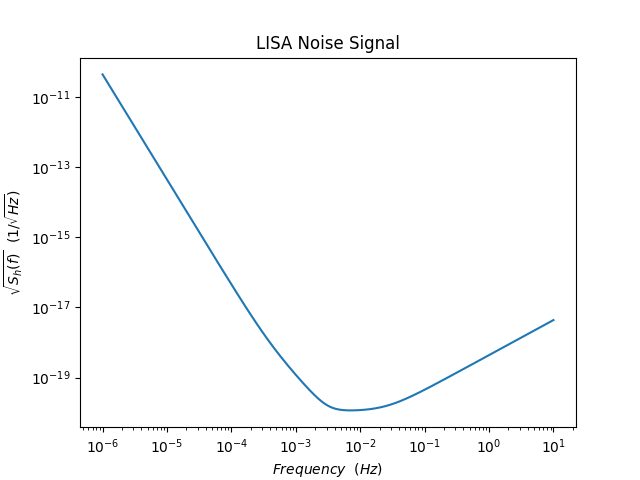
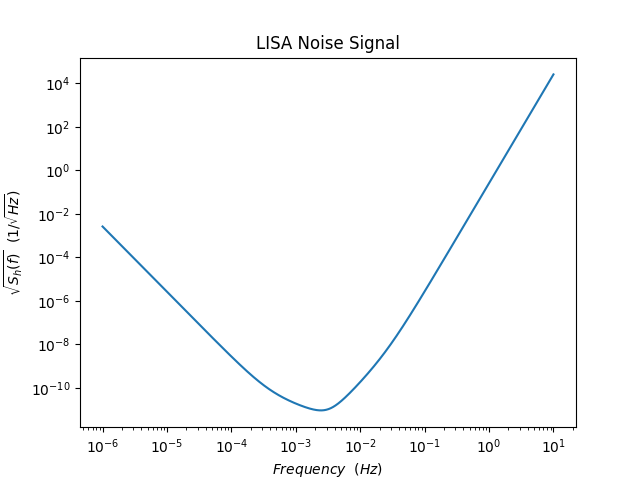
ps 1.5 factor

diff --git a/Main/Data_Analysis/ps_rewritten.py b/Main/Data_Analysis/ps_rewritten.py
@@ -71,7 +71,7 @@ if __name__ == "__main__":
   GW = (P1.Omega_GW(frequencies, P1.Amp, P1.fp_0())) # Dit is mijn GW signaal
   np.savetxt('Omega_GW_test.csv', GW, delimiter=',') # Slaat op als csv zodat ik de waardes kon vergelijken met PTPLOT
   print(GW)
-  Noise = Omega_N(frequencies, 3, 15)  # Mijn sensitivty curve
+  Noise = Omega_N(frequencies, 3, 15)  # Mijn sensitivity curve
   print(f"The peak frequency of the PS is: {P1.fp_0()} mHz")
   print(f"The amplitude of the PS is: {P1.calculate_amplitude()}")
 

diff --git a/Main/Data_Analysis/scird_lisa_noise.py b/Main/Data_Analysis/scird_lisa_noise.py
@@ -23,13 +23,14 @@ def Omega_S(f): #In reality this is h^2*Omega_S
     return ((2*pi**2)/(3*H_0**2))*(f**3)*S_h(f)
 
 if__name__ = '__main__'
-f = np.logspace(-6, 1, 8000)
+f = np.logspace(-6, 1, 2000)
 noise = np.sqrt(S_h(f))
 print(noise)
 
 Omega = Omega_S(f)
+np.savetxt("scird_)
 print(Omega)
-plt.loglog(f, noise)
+plt.loglog(f, Omega)
 plt.title('LISA Noise Signal')
 plt.xlabel(r'$Frequency$' + "  " + r'$(Hz)$')
 plt.ylabel(r'$\sqrt{S_{h}(f)}$' + "  " +r'$(1/\sqrt{Hz})$')
